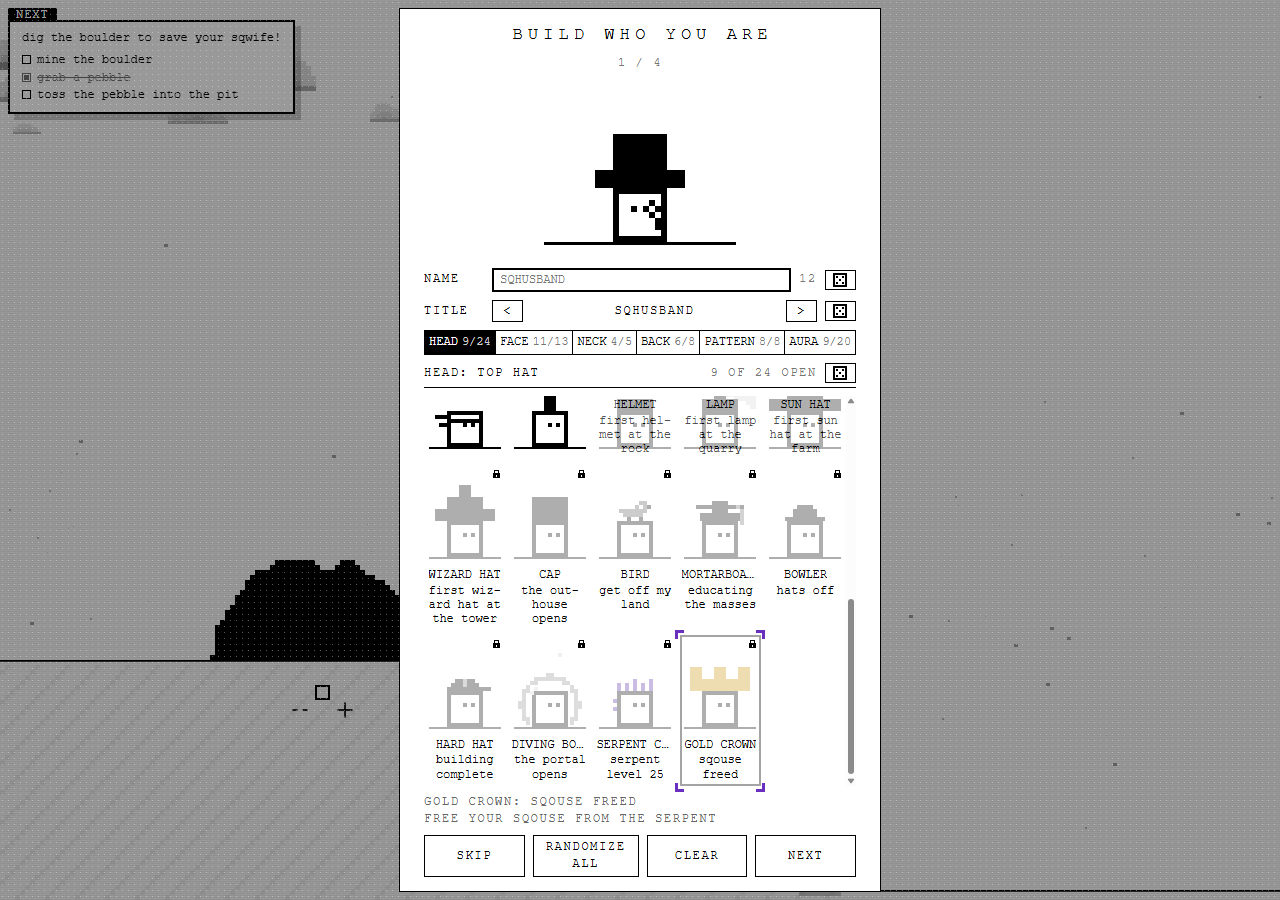
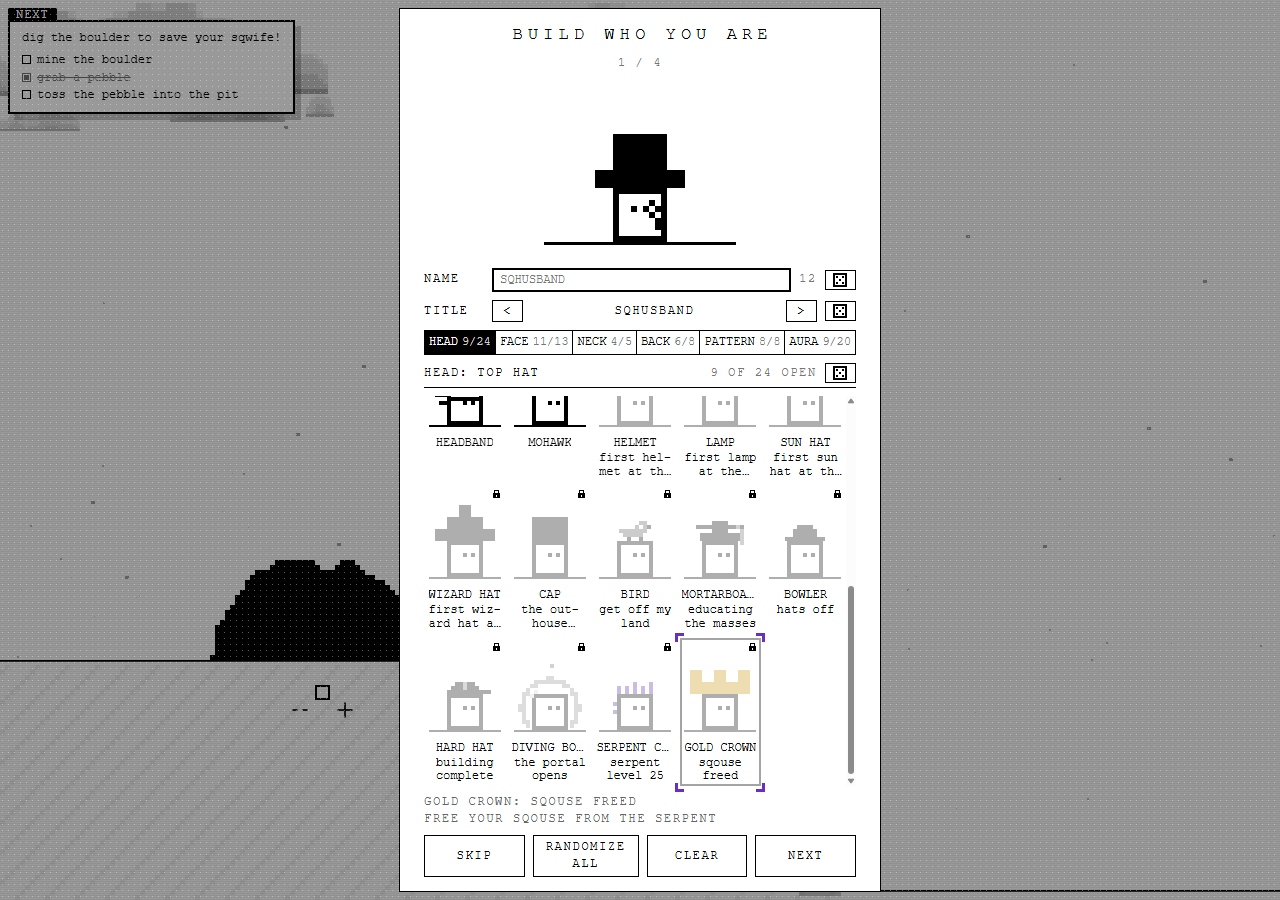
Wardrobe: the square held still at 1280x800, and a tile's picture scrolls with its tile
The owner wants the close-up always in view, and 1280x800 is a common
laptop window. A row of tiles is shorter: what opens a locked tile wraps to
two lines and no more (line-height 1.15; the whole of it stays in the
tile's title and the line under the grid), and the tile loses its 2px
foot. That took a row from 166px to 148, still 34px short at 800, so
WARD_GRID_ROWS goes 2 -> 1.5: a row and half the next, which also says
there is more under it. rowsTall measures a part of a row.

The global canvas rule (sticky at the top, for the yard's window) held
every tile's picture at the scrolling grid's top, over its own words; the
picker's canvases are static now.

Checks: src/selftest/wardrobe.js "short window" runs at 1280x800 and 900,
reads WARD_GRID_ROWS, and asserts each tile's picture stands at its tile's
top once scrolled (red without the canvas fix). Shots in
docs/reviews/2026-10-16-grid-800/; the 900 shots in
docs/reviews/2026-10-16-back-items/ shot again without the stuck pictures.

diff --git a/src/selftest/wardrobe.js b/src/selftest/wardrobe.js
@@ -14,7 +14,7 @@
 
 import { ok, raf, run, canvas, onScreen, hoverHouse, hoverAway } from './kit.js';
 import { S } from '../state.js';
-import { P, WORKER, NAME_MAX, WARD_AURAS, WARD_AURA_FPS } from '../config.js';
+import { P, WORKER, NAME_MAX, WARD_AURAS, WARD_AURA_FPS, WARD_GRID_ROWS } from '../config.js';
 import { advance } from '../clock.js';
 import { draw } from '../render.js';
 import { darkPage } from '../ink.js';
@@ -846,12 +846,21 @@ export const TESTS = [
 
   // A short window (the owner, 2026-10-16): only the grid scrolls, inside
   // itself, so the close-up, the slot tabs and the foot stay on the glass;
-  // the grid keeps at least its first two rows in sight; and the arrow down
-  // walks every row of it, each scrolled into sight, before it leaves the
-  // grid. The same on a new yard's first build step.
+  // the grid keeps at least its first WARD_GRID_ROWS rows in sight; and the
+  // arrow down walks every row of it, each scrolled into sight, before it
+  // leaves the grid. The same on a new yard's first build step. At a
+  // laptop's window (1280x800, the owner wants the square held there too)
+  // and a little taller.
   ['wardrobe: on a short window only the grid scrolls, the close-up stays in view, and the arrow down walks every row', async () => {
+    const checks = [];
+    for (const h of [800, 900]) checks.push(...(await shortWindow(h)).map(c => ({ ...c, what: `1280x${h}: ${c.what}` })));
+    return checks;
+  }],
+];
+
+async function shortWindow(h) {
     const f = document.createElement('iframe');
-    f.style.cssText = 'position:fixed;left:0;top:0;width:1280px;height:900px;border:0;opacity:0;pointer-events:none;z-index:-1';
+    f.style.cssText = `position:fixed;left:0;top:0;width:1280px;height:${h}px;border:0;opacity:0;pointer-events:none;z-index:-1`;
     document.body.appendChild(f);
     const loaded = new Promise(r => f.addEventListener('load', r, { once: true }));
     f.src = './play.html?bench';
@@ -879,7 +888,11 @@ export const TESTS = [
       const g = grids(), tiles = [...d.querySelectorAll('.wardtiles.on .wardtile')];
       const rowOf = t => Math.round(t.getBoundingClientRect().top + g.scrollTop);
       const rows = [...new Set(tiles.map(rowOf))];
-      const two = tiles.filter(t => rowOf(t) <= rows[1]).reduce((m, t) => Math.max(m, t.getBoundingClientRect().bottom), 0) - g.getBoundingClientRect().top;
+      // how far down the grid its first WARD_GRID_ROWS rows reach, a part of
+      // the next row for a part of a row
+      const footOf = i => tiles.filter(t => rowOf(t) === rows[i]).reduce((m, t) => Math.max(m, t.getBoundingClientRect().bottom), 0) - g.getBoundingClientRect().top;
+      const whole = Math.floor(WARD_GRID_ROWS), part = WARD_GRID_ROWS - whole;
+      const two = footOf(whole - 1) + (part ? part * (footOf(whole) - footOf(whole - 1)) : 0);
       const sheetStill = sheet.scrollHeight <= sheet.clientHeight + 1, gridScrolls = g.scrollHeight > g.clientHeight + 1;
       const twoSeen = g.clientHeight >= two - 1, upAtFirst = fixed();
       // down from the first tile, a press at a time, until the focus leaves
@@ -894,6 +907,13 @@ export const TESTS = [
         await paint(1);
       }
       const leftTo = d.activeElement?.id, upAfter = fixed() && sheet.scrollTop === 0;
+      // scrolled to the foot, every tile's picture stands at its tile's top, over its words
+      g.scrollTop = g.scrollHeight;
+      await paint(1);
+      const strays = tiles.filter(t => {
+        const a = t.getBoundingClientRect(), c = t.querySelector('canvas').getBoundingClientRect();
+        return Math.abs(c.top - a.top - parseFloat(getComputedStyle(t).borderTopWidth)) > 1;
+      }).map(t => t.id);
       page.leaveWardrobe();
       await paint(2);
       state.S.dressOffered = false;
@@ -905,14 +925,14 @@ export const TESTS = [
       return [
         ok(sheetStill && gridScrolls, 'the sheet stands still and the grid scrolls inside it',
            `sheet ${sheet.scrollHeight} in ${sheet.clientHeight}, grid ${g.scrollHeight} in ${g.clientHeight}`),
-        ok(twoSeen, 'the grid keeps its first two rows in sight', `${g.clientHeight} for ${Math.round(two)}`),
+        ok(twoSeen, `the grid keeps its first ${WARD_GRID_ROWS} rows in sight`, `${g.clientHeight} for ${Math.round(two)}`),
         ok(upAtFirst && upAfter, 'the close-up, the slot tabs and the foot stay in the window, before the walk and after'),
         ok(seen.size === rows.length && !lost.length, 'the arrow down walks every row, each scrolled into sight',
            `${seen.size} of ${rows.length} rows; out of sight: ${lost.join(' ')}`),
         ok(!!leftTo && !leftTo.startsWith('ward-tile-'), 'and only then leaves the grid', leftTo),
+        ok(!strays.length, 'a tile\'s picture scrolls with its tile', strays.join(' ')),
         ok(stepStill && stepScrolls && stepUp, 'a new yard\'s build step the same',
            `sheet ${sheet.scrollHeight}/${sheet.clientHeight}, grid scrolls ${stepScrolls}, in view ${stepUp}`)
       ];
     } finally { f.remove(); }
-  }],
-];
+}

diff --git a/src/style.css b/src/style.css
@@ -1294,7 +1294,9 @@ body.still #held > :not([hidden]), body.still .col > :not([hidden]) { animation:
    a chosen thing; a locked one faint under its lock; one tried on dashed.
    Under a thumb every target is the platform's 44 pixels (TOUCH_TARGET). */
 .held .wardrobe { display: flex; flex-direction: column; gap: var(--gap-m); }
-.wardrobe canvas { display: block; image-rendering: pixelated; }
+/* the yard-window rule (`canvas`, sticky at the top) undone: in the scrolling
+   grid a tile's picture would stick to the grid's top over its own words */
+.wardrobe canvas { display: block; image-rendering: pixelated; position: static; z-index: auto; }
 .held .wardrobe .wardtab.on { color: var(--paper); background: var(--ink); }
 .wardrobe .wardid { display: flex; flex-wrap: wrap; justify-content: center; align-items: flex-end; gap: var(--gap-m); }
 .wardrobe .wardid.alone .wardbig { flex: 1 1 100%; min-width: 0; }
@@ -1355,7 +1357,7 @@ body.still #held > :not([hidden]), body.still .col > :not([hidden]) { animation:
 .wardrobe .wardtiles { grid-area: 1 / 1; align-self: start; display: grid; grid-template-columns: repeat(auto-fill, minmax(calc(var(--tile) + 4px), 1fr)); gap: var(--gap-s); }
 .wardrobe .wardtiles:not(.on) { visibility: hidden; height: 0; overflow: hidden; }
 .held .wardrobe .wardtile {
-  position: relative; min-width: 0; padding: 0 0 2px; border: 2px solid transparent;
+  position: relative; min-width: 0; padding: 0; border: 2px solid transparent;
   display: flex; flex-direction: column; align-items: center; gap: 0; letter-spacing: normal;
 }
 .held .wardrobe .wardtile:focus-visible { border-color: var(--ink-7); }
@@ -1364,11 +1366,16 @@ body.still #held > :not([hidden]), body.still .col > :not([hidden]) { animation:
 .held .wardrobe .wardtile.tried { border-style: dashed; border-color: var(--ink); }
 .wardrobe .wardtn { font-size: var(--fs-small); max-width: 100%; overflow: hidden; text-overflow: ellipsis; white-space: nowrap; }
 /* a locked tile: the drawing faint, its words at full ink, and what opens it
-   under the name, wrapping rather than cut (the owner: show how to unlock) */
+   under the name (the owner: show how to unlock), wrapping to two lines and
+   no more, so a row of tiles is short enough that two of them stand on a
+   laptop's window with the close-up (the whole of it is the tile's title and
+   the line under the grid) */
 .wardrobe .wardtile.lock canvas { opacity: .32; }
-.wardrobe .wardtu { font-size: var(--fs-body); line-height: 1.2; max-width: 100%; padding: 0 2px;
+.wardrobe .wardtu { font-size: var(--fs-body); line-height: 1.15; max-width: 100%; padding: 0 2px;
                     white-space: normal; overflow-wrap: break-word; hyphens: auto; text-align: center;
-                    text-transform: none; letter-spacing: normal; }
+                    text-transform: none; letter-spacing: normal;
+                    display: -webkit-box; -webkit-box-orient: vertical; -webkit-line-clamp: 2; line-clamp: 2; overflow: hidden; }
+.wardrobe .wardtu[hidden] { display: none; }
 .wardrobe .wardlk { position: absolute; top: 3px; right: 3px; width: 7px; height: 8px; }
 .wardrobe .wardabout { min-height: 2.6em; display: flex; flex-direction: column; color: var(--ink-4); font-size: var(--fs-small); text-align: left; }
 @media (max-width: 560px), (pointer: coarse) {

diff --git a/src/wardrobepage.js b/src/wardrobepage.js
@@ -331,18 +331,19 @@ function stacked(box, swap, h) {
   }
   return sum + Math.max(0, n - 1) * (parseFloat(getComputedStyle(box).rowGap) || 0);
 }
-// How tall a grid's first `n` rows of tiles stand (a row with a locked tile's
-// words under it stands taller than one without).
+// How tall a grid's first `n` rows of tiles stand, a part of a row for a
+// part of `n` (a row with a locked tile's words under it stands taller than
+// one without).
 function rowsTall(g, n) {
-  const top = g.getBoundingClientRect().top, tops = [];
-  let foot = 0;
+  const top = g.getBoundingClientRect().top, feet = [];
   for (const t of g.children) {
-    const r = t.getBoundingClientRect();
-    if (!tops.includes(r.top)) tops.push(r.top);
-    if (tops.length > n) break;
-    foot = Math.max(foot, r.bottom - top);
+    const r = t.getBoundingClientRect(), at = feet.findIndex(f => f.top === r.top);
+    if (at < 0) feet.push({ top: r.top, foot: r.bottom });
+    else feet[at].foot = Math.max(feet[at].foot, r.bottom);
   }
-  return foot;
+  const whole = Math.min(Math.floor(n), feet.length), part = n - Math.floor(n);
+  const upTo = i => (i ? feet[i - 1].foot - top : 0);
+  return upTo(whole) + (part && feet[whole] ? part * (feet[whole].foot - top - upTo(whole)) : 0);
 }
 function fitGrid() {
   const b = built;

diff --git a/src/config/wardrobe.js b/src/config/wardrobe.js
@@ -48,8 +48,10 @@ export const WARD_TILE_FOOT = 5;
 // How strong a locked item is drawn on the close-up while it is tried on.
 export const WARD_TRY_ALPHA = 0.35;
 // The fewest rows of tiles the grid gives way to on a short window, before
-// the sheet scrolls instead (style.css, `.wardgrids`).
-export const WARD_GRID_ROWS = 2;
+// the sheet scrolls instead (style.css, `.wardgrids`): a row and half the
+// next, so a laptop's window (1280x800) holds the close-up still, and the
+// half row says there is more under it.
+export const WARD_GRID_ROWS = 1.5;
 
 // Who the two of them are (DESIGN.md, "Who you are"): the longest name the
 // player may give either square, in characters. The narrow places a name

diff --git a/CHANGELOG.md b/CHANGELOG.md
@@ -178,7 +178,7 @@ this section; the release that switches it on moves these under Unreleased.
 - The sqwife and the sqhusband can be dressed -- a hat, a face, something at the neck, something on the back, a pattern, an aura -- on a page of their own, "appearance" on the house's board, offered once at a new yard; what they wear on their heads replaces their station hat, so the two of them can be found in any crowd; the station hats, a gold set, the serpent's comb and a dozen more pieces open with achievements, a station's first hat or the portal, and a lamp lights the way ahead of whoever wears it (test/pair.test.mjs; test/wardrobe-locks.test.mjs; src/selftest/wardrobe.js).
 - The appearance page and a new yard's build steps show every item of a slot at once, a tile each of the bare square wearing it, under a tab a slot with how many are open; a locked one is tried on faintly and not kept (src/selftest/wardrobe.js).
 - The back items are drawn finer: the capes billow out behind on the walk, the balloon lags behind on a stepped string, the flag is a pennant streaming back, and the backpack has a flap and a buckle.
-- On a short window only the appearance page's grid scrolls, so the close-up, the slot tabs and the buttons stay in view, and the arrows walk every row of the grid before leaving it (src/selftest/wardrobe.js, "short window").
+- On a short window, down to a laptop's 1280x800, only the appearance page's grid scrolls, so the close-up, the slot tabs and the buttons stay in view, and the arrows walk every row of the grid before leaving it (src/selftest/wardrobe.js, "short window").
 - Settings, on the pause sheet and the title page, is one page in four tabs -- graphics, audio, controls and language -- with the controls table and the languages right under their tabs, LB and RB to turn them on a pad, and the title page's volume slider drawn like the pause sheet's (src/selftest/settings.js, "four tabs"; src/selftest/language.js).
 
 - The smallest words in the menus -- the appearance page's tabs and tile names, the boards' row names, the controls table, the settings tabs, the title page's foot -- are no longer too small to read, and every grey word in the menus is dark enough to read on the light page and the dark (src/selftest/textaa.js; test/ui-tokens.test.mjs).
